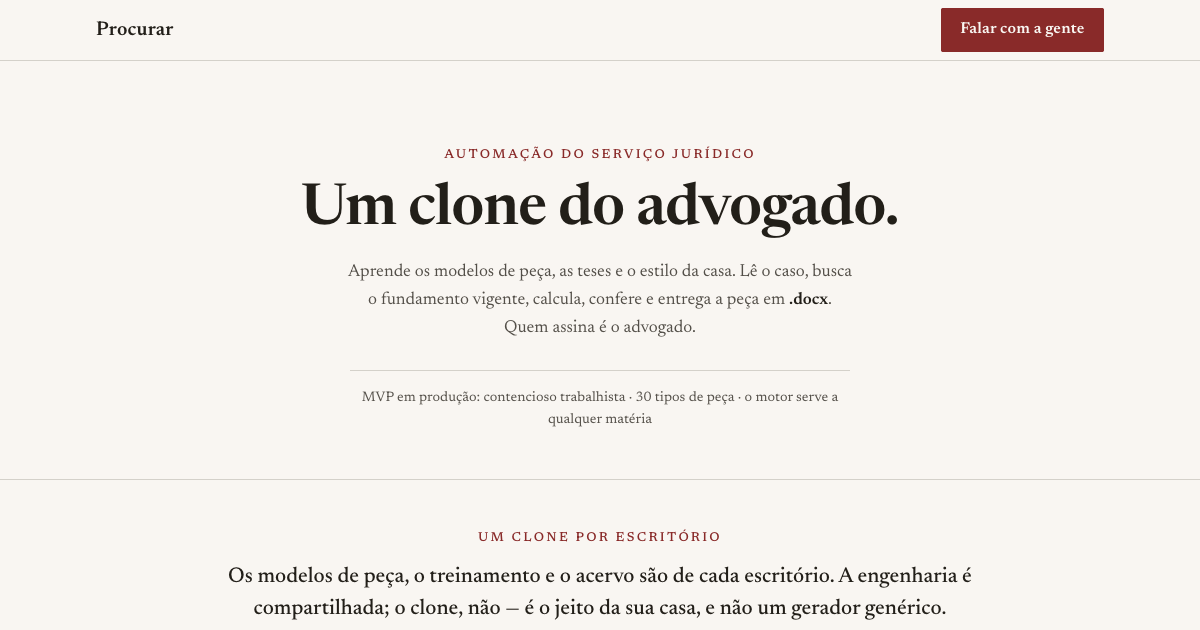
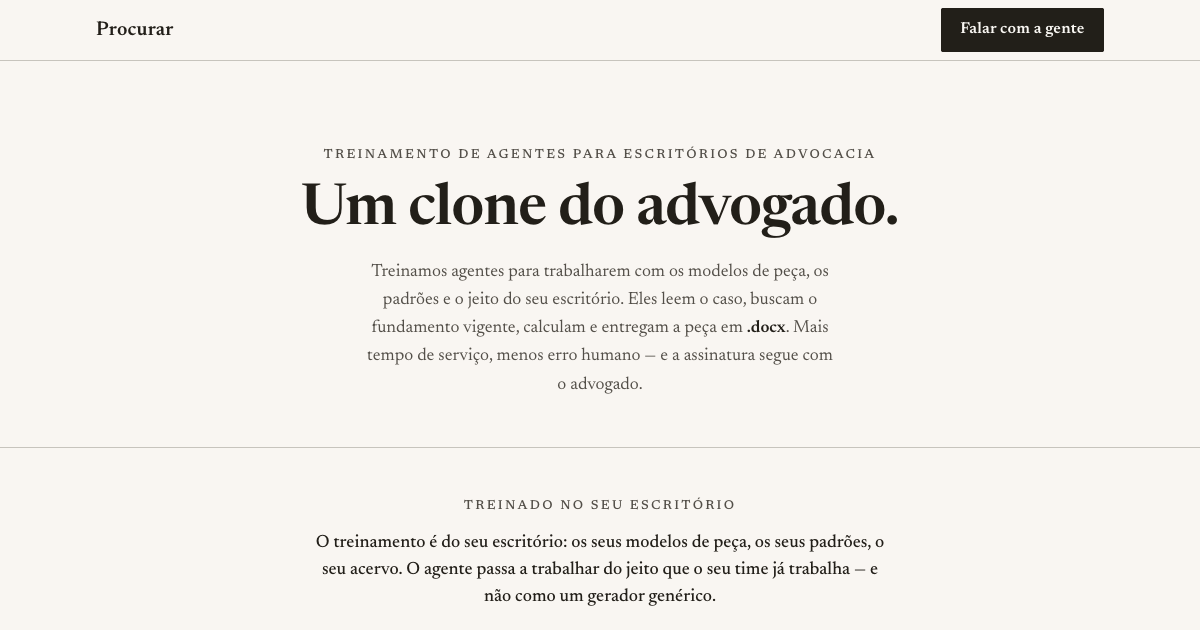
só tinta: sem vermelho, sem lista de garantias, treinamento de agentes no lugar de pipeline

diff --git a/index.html b/index.html
@@ -8,7 +8,7 @@
 <meta name="theme-color" content="#f7f5f0">
 <link rel="icon" href="assets/seal.svg" type="image/svg+xml">
 <link rel="preload" href="assets/fonts/newsreader-normal-400_700.woff2" as="font" type="font/woff2" crossorigin>
-<link rel="stylesheet" href="assets/styles.css?v=2">
+<link rel="stylesheet" href="assets/styles.css?v=3">
 <meta property="og:type" content="website">
 <meta property="og:url" content="https://procurar.github.io/">
 <meta property="og:title" content="Procurar — um clone do advogado">
@@ -32,12 +32,13 @@
 <main id="conteudo">
   <section class="hero" id="topo">
     <div class="shell hero__grid">
-      <p class="kicker">automação do serviço jurídico</p>
+      <p class="kicker">treinamento de agentes para escritórios de advocacia</p>
       <h1>Um clone do advogado.</h1>
       <p class="lede">
-        Aprende os modelos de peça, as teses e o estilo da casa. Lê o caso, busca o
-        fundamento vigente, calcula, confere e entrega a peça em <code>.docx</code>.
-        Quem assina é o advogado.
+        Treinamos agentes para trabalharem com os modelos de peça, os padrões e o jeito do seu
+        escritório. Eles leem o caso, buscam o fundamento vigente, calculam e entregam a peça
+        em <code>.docx</code>. Mais tempo de serviço, menos erro humano — e a assinatura segue
+        com o advogado.
       </p>
     </div>
 
@@ -45,10 +46,11 @@
 
   <section class="claim">
     <div class="shell claim__grid">
-      <p class="kicker">um clone por escritório</p>
+      <p class="kicker">treinado no seu escritório</p>
       <p class="claim__text">
-        Os modelos de peça, o treinamento e o acervo são de cada escritório. A engenharia é
-        compartilhada; o clone, não — é o jeito da sua casa, e não um gerador genérico.
+        O treinamento é do seu escritório: os seus modelos de peça, os seus padrões, o seu
+        acervo. O agente passa a trabalhar do jeito que o seu time já trabalha — e não como um
+        gerador genérico.
       </p>
     </div>
   </section>
@@ -61,85 +63,39 @@
       </header>
       <div class="cards">
         <article class="card">
-          <h3>Aprende a casa</h3>
-          <p>Modelos de peça, banco de teses e o piso de citação do próprio escritório.</p>
+          <h3>Treinamos o agente</h3>
+          <p>Com os modelos de peça, as teses e os padrões de escrita do seu escritório.</p>
         </article>
         <article class="card">
-          <h3>Lê e fundamenta</h3>
-          <p>Ata, documento, laudo, contestação e acórdão viram dados. Cada citação se ancora nos autos.</p>
+          <h3>Ele trabalha o caso</h3>
+          <p>Lê os documentos, busca o fundamento vigente, calcula e redige a peça.</p>
         </article>
         <article class="card">
-          <h3>Escreve e confere</h3>
-          <p>Memória de cálculo, pedido fechando com o fato e <code>.docx</code> no estilo da casa.</p>
+          <h3>O escritório ganha</h3>
+          <p>Tempo de serviço de volta e menos erro humano. Revisar e assinar segue com o advogado.</p>
         </article>
       </div>
-    </div>
-  </section>
-
-  <section class="sec" id="garantias">
-    <div class="shell">
-      <header class="sec__head">
-        <span class="num" aria-hidden="true">II</span>
-        <h2>Garantias</h2>
-      </header>
-      <p class="sec__note">
-        Antes de o .docx ser gerado, a peça passa por conferências. As abaixo bloqueiam a
-        entrega; as demais avisam e ficam registradas.
-      </p>
-      <ul class="gates">
-        <li>
-          <span class="flag">bloqueia</span>
-          <b>conferência documental</b>
-          <span class="gates__text">todo fato tem documento na pasta</span>
-        </li>
-        <li>
-          <span class="flag">bloqueia</span>
-          <b>fato ↔ pedido</b>
-          <span class="gates__text">todo pedido nasce de um fato narrado</span>
-        </li>
-        <li>
-          <span class="flag">bloqueia</span>
-          <b>status do verbete</b>
-          <span class="gates__text">súmula e tema citados têm de estar em vigor</span>
-        </li>
-        <li>
-          <span class="flag">bloqueia</span>
-          <b>vigência da citação</b>
-          <span class="gates__text">teor oficial conferido na data da peça</span>
-        </li>
-        <li>
-          <span class="flag">bloqueia</span>
-          <b>teses por perfil</b>
-          <span class="gates__text">a tese é do caso, não do caso vizinho</span>
-        </li>
-        <li>
-          <span class="flag">bloqueia</span>
-          <b>.docx entregue</b>
-          <span class="gates__text">a peça só está pronta quando o arquivo existe</span>
-        </li>
-      </ul>
-      <p class="line line--muted">citação inventada é o erro que essas conferências existem para pegar</p>
     </div>
   </section>
 
   <section class="sec sec--last" id="direcao">
     <div class="shell">
       <header class="sec__head">
-        <span class="num" aria-hidden="true">III</span>
+        <span class="num" aria-hidden="true">II</span>
         <h2>Para onde vamos</h2>
       </header>
       <div class="cards cards--three">
         <article class="card">
-          <h3>Outras matérias</h3>
-          <p>O que muda por área são os modelos de peça e as fontes oficiais — não o motor.</p>
+          <h3>Outras áreas do direito</h3>
+          <p>O treinamento muda de matéria para matéria; o jeito de trabalhar, não.</p>
         </article>
         <article class="card">
-          <h3>Outros escritórios</h3>
-          <p>Parametrizado por escritório, com isolamento entre clientes como requisito de entrada.</p>
+          <h3>Cada escritório com o seu</h3>
+          <p>Um agente por escritório, com o próprio acervo e os próprios padrões — isolado dos demais.</p>
         </article>
         <article class="card">
-          <h3>Só entra o que foi medido</h3>
-          <p>Recurso novo de modelo fica desligado até o delta aparecer no conjunto congelado.</p>
+          <h3>Só entra o que se prova</h3>
+          <p>Melhoria só é ligada quando mostra ganho nos casos de teste do escritório.</p>
         </article>
       </div>
     </div>

diff --git a/assets/styles.css b/assets/styles.css
@@ -9,10 +9,9 @@
   --ink:oklch(0.240 0.012 80);
   --ink-2:oklch(0.430 0.012 80);
   --ink-3:oklch(0.440 0.012 80);
-  --rule:oklch(0.860 0.010 85);
+  --rule:oklch(0.820 0.010 85);
   --rule-2:oklch(0.780 0.012 85);
-  --selo:oklch(0.430 0.130 25);
-  --selo-hover:oklch(0.330 0.100 25);
+  --ink-hover:oklch(0.330 0.012 80);
 
   --serif:"Newsreader",ui-serif,Georgia,"Times New Roman",serif;
 
@@ -37,14 +36,14 @@ h1,h2,h3,p,dl,dd,dt,ul,li{margin:0}
 ul{padding:0;list-style:none}
 a{color:inherit}
 code{font-family:inherit;font-size:0.96em;font-weight:600}
-::selection{background:var(--selo);color:var(--paper)}
-:focus-visible{outline:2px solid var(--selo);outline-offset:2px}
+::selection{background:var(--ink);color:var(--paper)}
+:focus-visible{outline:2px solid var(--ink);outline-offset:2px}
 
 .shell{width:100%;max-width:var(--shell);margin-inline:auto;padding-inline:var(--gutter)}
 
 .skip{
   position:absolute;inset-inline-start:1rem;inset-block-start:-3.5rem;z-index:20;
-  background:var(--selo);color:var(--paper);font-size:0.82rem;font-weight:500;
+  background:var(--ink);color:var(--paper);font-size:0.82rem;font-weight:500;
   letter-spacing:0.06em;text-decoration:none;padding:0.6rem 0.9rem;border-radius:var(--radius);
   transition:inset-block-start 120ms ease-out;
 }
@@ -60,7 +59,7 @@ code{font-family:inherit;font-size:0.96em;font-weight:600}
   font-size:1.25rem;font-weight:600;letter-spacing:0.01em;text-decoration:none;
   transition:color 130ms ease-out;
 }
-.brand:hover{color:var(--selo)}
+.brand:hover{text-decoration:underline;text-underline-offset:0.22em;text-decoration-thickness:1px}
 
 .btn{
   display:inline-flex;align-items:center;justify-content:center;
@@ -70,35 +69,30 @@ code{font-family:inherit;font-size:0.96em;font-weight:600}
   transition:background-color 140ms ease-out,color 140ms ease-out,border-color 140ms ease-out,scale 140ms ease-out;
 }
 .btn:active{scale:0.96}
-.btn--solid{background:var(--selo);color:var(--paper)}
-.btn--solid:hover{background:var(--selo-hover)}
+.btn--solid{background:var(--ink);color:var(--paper)}
+.btn--solid:hover{background:var(--ink-hover)}
 .btn--line{border-color:var(--rule-2);color:var(--ink)}
-.btn--line:hover{border-color:var(--selo);color:var(--selo)}
+.btn--line:hover{border-color:var(--ink);background:var(--paper-2)}
 
 /* hero: cabeçalho de documento */
 .hero{padding-block:clamp(3rem,7vw,5.5rem) clamp(2rem,4vw,3rem);text-align:center}
 .hero__grid{display:grid;justify-items:center;gap:1rem;max-width:46rem}
-.kicker{font-size:0.8rem;font-weight:500;letter-spacing:0.18em;text-transform:uppercase;color:var(--selo)}
+.kicker{font-size:0.8rem;font-weight:500;letter-spacing:0.18em;text-transform:uppercase;color:var(--ink-2)}
 h1{font-size:clamp(2.3rem,5.5vw,3.6rem);line-height:1.05;font-weight:600;letter-spacing:-0.012em;text-wrap:balance}
 .lede{max-width:52ch;color:var(--ink-2);font-size:1.1rem;text-wrap:pretty}
 .lede code{color:var(--ink)}
 /* o ponto: um por escritório */
 .claim{border-block-start:1px solid var(--rule);padding-block:clamp(2.25rem,4vw,3.25rem);text-align:center}
 .claim__grid{display:grid;justify-items:center;gap:0.85rem}
-.claim__text{max-width:62ch;font-size:clamp(1.15rem,1.8vw,1.45rem);line-height:1.45;font-weight:500;text-wrap:pretty}
+.claim__text{max-width:56ch;font-size:clamp(1.08rem,1.5vw,1.3rem);line-height:1.5;font-weight:500;text-wrap:pretty}
 
 /* seções numeradas */
 .sec{padding-block:var(--band);border-block-start:1px solid var(--rule)}
 .sec--last{padding-block-end:calc(var(--band) * 0.9)}
-.sec__head{display:grid;grid-template-columns:2.5rem minmax(0,1fr);align-items:baseline;gap:0.75rem}
-.num{font-size:0.95rem;font-weight:600;letter-spacing:0.04em;color:var(--selo)}
+.sec__head{display:grid;grid-template-columns:2.25rem minmax(0,1fr);align-items:baseline;gap:0.6rem}
+.num{font-size:1rem;font-weight:600;letter-spacing:0.04em;color:var(--ink-2)}
 h2{font-size:clamp(1.5rem,2.6vw,2rem);line-height:1.15;font-weight:600;letter-spacing:-0.008em}
 .sec__note{margin-block-start:0.85rem;max-width:68ch;color:var(--ink-2);text-wrap:pretty}
-.line{
-  margin-block-start:1.5rem;font-size:0.84rem;letter-spacing:0.1em;
-  text-transform:uppercase;color:var(--ink-3);
-}
-
 /* grades */
 .cards{
   display:grid;grid-template-columns:repeat(3,minmax(0,1fr));gap:1px;
@@ -106,35 +100,19 @@ h2{font-size:clamp(1.5rem,2.6vw,2rem);line-height:1.15;font-weight:600;letter-sp
 }
 .card{background:var(--paper);padding:1.4rem 1.3rem 1.5rem}
 .card h3{font-size:1.05rem;font-weight:600;line-height:1.3}
-.card p{margin-block-start:0.5rem;font-size:0.95rem;line-height:1.55;color:var(--ink-2);text-wrap:pretty}
-
-.gates{margin-block-start:1.75rem;border-block-start:1px solid var(--rule-2)}
-.gates li{
-  display:grid;grid-template-columns:5.5rem minmax(0,11rem) minmax(0,1fr);
-  gap:0.5rem 1.25rem;align-items:baseline;
-  padding-block:0.85rem;border-block-end:1px solid var(--rule);
-}
-.flag{
-  font-size:0.72rem;font-weight:500;letter-spacing:0.12em;text-transform:uppercase;
-  color:var(--paper);background:var(--ink);border-radius:var(--radius);
-  padding:0.15rem 0.4rem;justify-self:start;
-}
-.gates b{font-weight:600;font-size:0.98rem;color:var(--ink)}
-.gates__text{font-size:0.95rem;color:var(--ink-2);text-wrap:pretty}
+.card p{margin-block-start:0.5rem;font-size:0.98rem;line-height:1.55;color:var(--ink-2);text-wrap:pretty}
 
 /* rodapé */
 .foot{border-block-start:1px solid var(--rule);padding-block:1.75rem}
 .foot__grid{display:grid;grid-template-columns:auto minmax(0,1fr) auto;gap:0.5rem 2rem;align-items:baseline}
 .foot__brand{font-size:1.05rem;font-weight:600}
-.foot__note{color:var(--ink-3);font-size:0.88rem;text-wrap:pretty}
+.foot__note{color:var(--ink-2);font-size:0.9rem;text-wrap:pretty}
 .foot__legal{font-size:0.84rem;letter-spacing:0.06em;color:var(--ink-3);white-space:nowrap}
 
 @media (max-width:900px){
   .cards{grid-template-columns:minmax(0,1fr)}
 }
 @media (max-width:700px){
-  .gates li{grid-template-columns:5.5rem minmax(0,1fr);gap:0.4rem 0.9rem}
-  .gates__text{grid-column:1/-1}
   .foot__grid{grid-template-columns:minmax(0,1fr);gap:0.75rem}
   .foot__legal{white-space:normal}
 }
